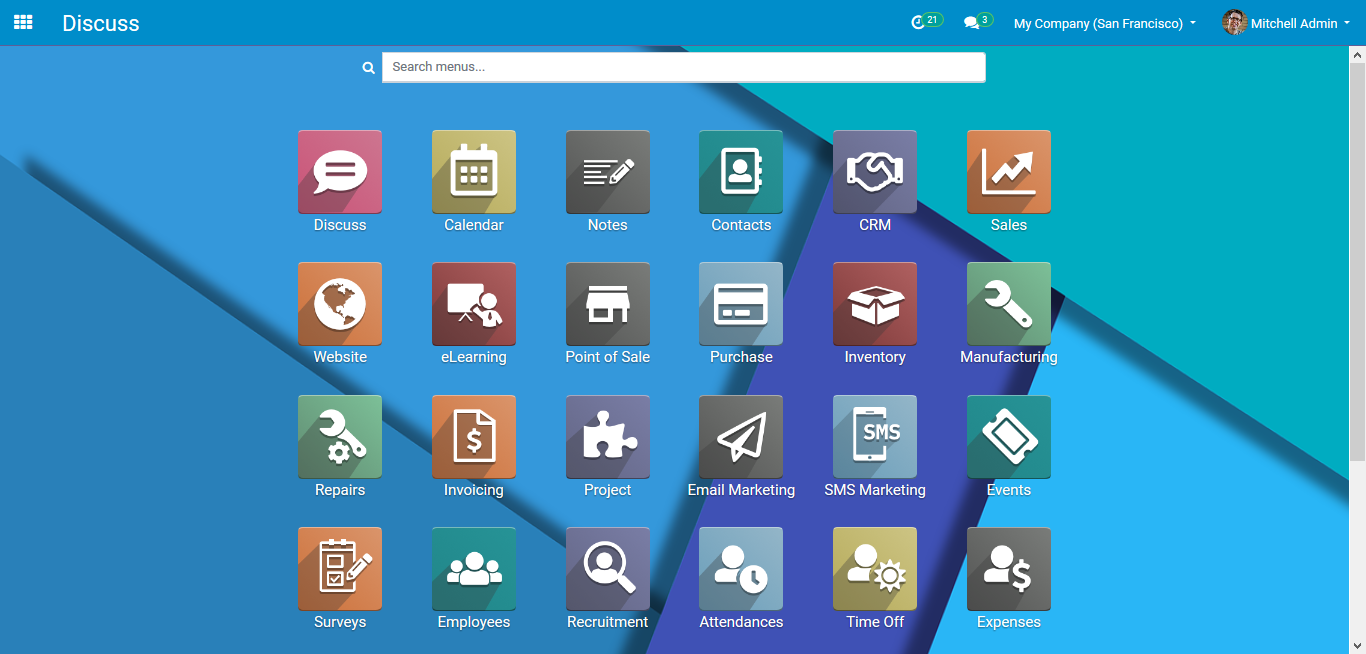
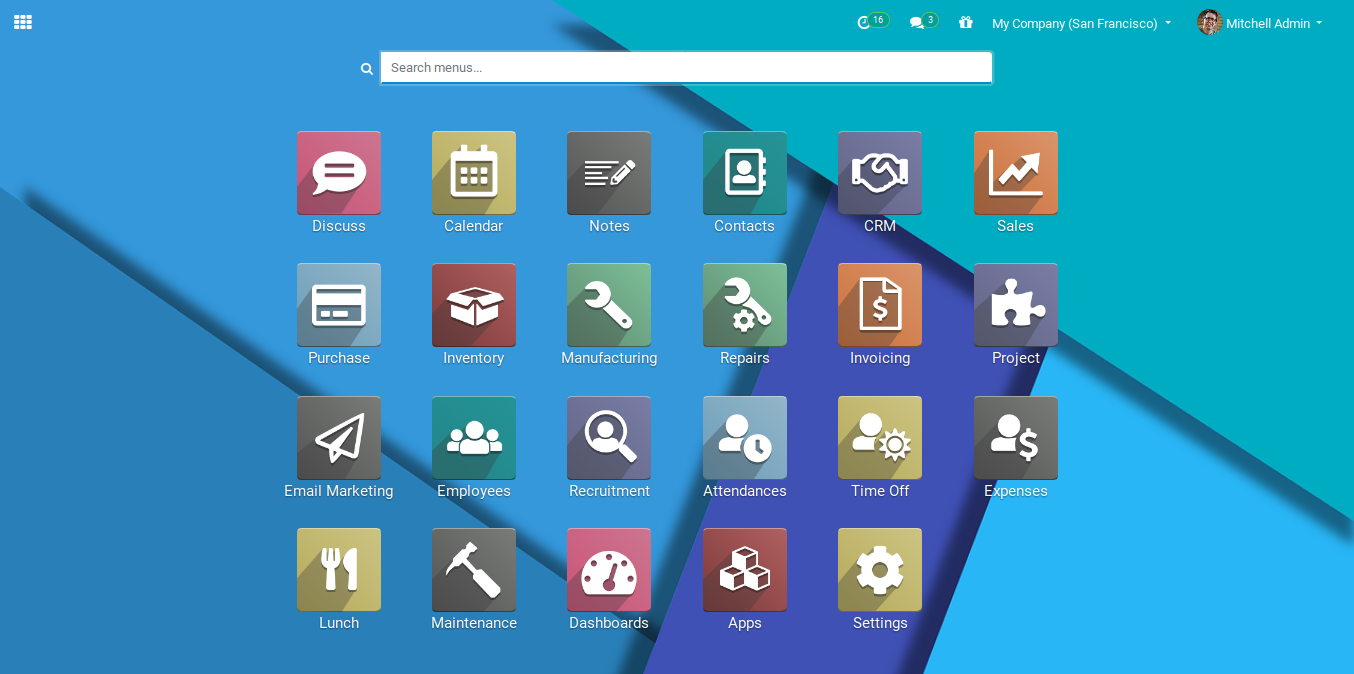
Sidebar added

diff --git a/backend_theme_v13/static/src/scss/style.scss b/backend_theme_v13/static/src/scss/style.scss
@@ -60,8 +60,26 @@ body {
 
 }
 
-.app-sidebar {
-    display: none;
+//.app-sidebar {
+//    display: none;
+//}
+
+// Sidebar
+html .o_web_client {
+    flex-flow: row wrap;
+
+    >header {
+        flex: 0 0 100%;
+    }
+
+    >.o_action_manager {
+        flex: 0 0 calc(100% - 180px);
+        height: calc(100% - 46px) !important;
+    }
+
+    .toggle-sidebar~.o_action_manager {
+        flex: 0 0 100%;
+    }
 }
 
 // Fix color Add file button

diff --git a/backend_theme_v13/static/src/scss/sidebar.scss b/backend_theme_v13/static/src/scss/sidebar.scss
@@ -65,5 +65,5 @@ $odoo-sidebar-width: 180px;
 }
 
 .toggle-sidebar {
-    margin-left: 0px - $odoo-sidebar-width;
+    display: none;
 }

diff --git a/backend_theme_v13/__manifest__.py b/backend_theme_v13/__manifest__.py
@@ -1,11 +1,11 @@
 # -*- coding: utf-8 -*-
-# Copyright 2016, 2019 Openworx - Mario Gielissen
+# Copyright 2016, 2020 Openworx - Mario Gielissen
 # License LGPL-3.0 or later (http://www.gnu.org/licenses/lgpl.html).
 
 {
     "name": "Openworx Material Backend Theme V13",
     "summary": "Openworx Material Backend Theme V13",
-    "version": "13.0.0.2",
+    "version": "13.0.0.3",
     "category": "Theme/Backend",
     "website": "http://www.openworx.nl",
 	"description": """
@@ -25,8 +25,8 @@
     "data": [
         'views/assets.xml',
 		'views/res_company_view.xml',
-		#'views/users.xml',
-        #'views/sidebar.xml',
+		'views/users.xml',
+        	'views/sidebar.xml',
     ],
     #'live_test_url': 'https://youtu.be/JX-ntw2ORl8'
 

diff --git a/backend_theme_v13/models/__init__.py b/backend_theme_v13/models/__init__.py
@@ -1,3 +1,4 @@
 # -*- coding: utf-8 -*-
 from . import res_company
-#from . import res_users
+from . import res_users
+
